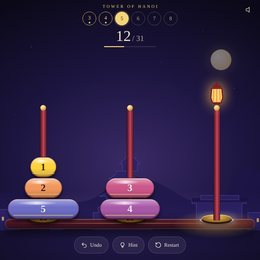
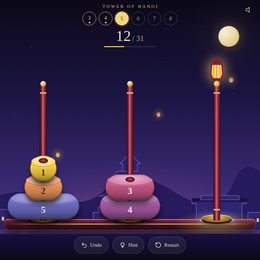
Tower of Hanoi: discs become rings you can see into, richer night sky
Discs now show a lit top face and a peg hole and overlap like a real stack, pegs get brass collars,
the base is a lacquered plinth, the sky has a horizon glow, a brighter moon, a stronger pagoda and
drifting sky lanterns, the tower is scaled up to fill the screen, and the control bar sits on dark ground.

Claude-Session: https://claude.ai/code/session_016v15ucP2T6zEZ4FJg5VXMC

Changed region(s): [[0.0, 0.0923, 1.0, 0.9231], [0.1231, 0.9538, 0.8923, 1.0], [0.5846, 0.4308, 0.6154, 0.4615]]

diff --git a/games/tower_of_hanoi.html b/games/tower_of_hanoi.html
@@ -10,10 +10,12 @@
 :root{--ink:#0d0a1f;--gold:#f2d57a;--paper:#efe3c8;--dim:#efe3c8b8;--bad:#ff8a7a}
 *{box-sizing:border-box;margin:0;-webkit-tap-highlight-color:transparent}
 html,body{height:100%;background:var(--ink);color:var(--paper);font-family:"Iowan Old Style",Palatino,"Palatino Linotype",Georgia,serif;overflow:hidden;font-feature-settings:'lnum';overscroll-behavior:none}
-#app{height:100%;height:100dvh;display:flex;flex-direction:column;position:relative;background:radial-gradient(90% 70% at 50% 62%,#3a2a66 0%,#1c1540 50%,#0b0918 100%);user-select:none;-webkit-user-select:none}
+#app{height:100%;height:100dvh;display:flex;flex-direction:column;position:relative;overflow:hidden;background:radial-gradient(70% 38% at 50% 88%,#9a4a7a66 0%,#0000 70%),linear-gradient(#0b0918 0%,#1c1544 38%,#3a2a73 72%,#6a3f86 100%);user-select:none;-webkit-user-select:none}
 .stars{position:absolute;inset:0;background-image:radial-gradient(1.5px 1.5px at 12% 18%,#fff9,#0000),radial-gradient(1px 1px at 78% 12%,#fff8,#0000),radial-gradient(1.5px 1.5px at 90% 34%,#fff7,#0000),radial-gradient(1px 1px at 30% 8%,#fff8,#0000),radial-gradient(1px 1px at 6% 44%,#fff6,#0000),radial-gradient(1.5px 1.5px at 62% 24%,#fff6,#0000)}
-.moon{position:absolute;right:9%;top:max(22%,150px);width:clamp(46px,8vmin,84px);aspect-ratio:1;border-radius:50%;background:radial-gradient(circle at 36% 34%,#fffbe6,#f6e3a1 55%,#e2c06e);box-shadow:0 0 30px 8px #f2d57a30,0 0 120px 40px #f2d57a14;opacity:.45;pointer-events:none}
-.temple{position:absolute;left:0;right:0;bottom:92px;height:34%;opacity:.7;pointer-events:none;width:100%}
+.moon{position:absolute;right:8%;top:max(10%,76px);width:clamp(46px,8vmin,84px);aspect-ratio:1;border-radius:50%;background:radial-gradient(circle at 30% 28%,#fffdf0,#f6e3a1 52%,#d9b765);box-shadow:0 0 30px 8px #f2d57a30,0 0 120px 40px #f2d57a14;opacity:.95;pointer-events:none}
+.temple{position:absolute;left:0;right:0;bottom:92px;height:34%;opacity:.95;pointer-events:none;width:100%}
+.fly{position:absolute;bottom:-30px;width:var(--s);height:calc(var(--s)*1.25);border-radius:30% 30% 40% 40%;background:radial-gradient(circle at 50% 70%,#fff3b0,#ffb84a 55%,#c0432a);box-shadow:0 0 calc(var(--s)*1.4) calc(var(--s)*.5) #ffb84a66;opacity:0;pointer-events:none;animation:fly var(--d) linear infinite;animation-delay:var(--w)}
+@keyframes fly{0%{transform:translate(0,0);opacity:0}12%{opacity:.85}85%{opacity:.7}100%{transform:translate(var(--x),-92vh);opacity:0}}
 .mist{position:absolute;left:0;right:0;bottom:92px;height:120px;background:linear-gradient(#0000,#5a4aa855 65%,#0000);pointer-events:none}
 header{position:relative;display:flex;flex-direction:column;align-items:center;gap:8px;padding:12px 16px 0}
 .title{font-size:13px;letter-spacing:.34em;text-transform:uppercase;color:var(--gold);padding-left:.34em}
@@ -40,7 +42,7 @@ header{position:relative;display:flex;flex-direction:column;align-items:center;g
 .stage{position:absolute;left:0;right:0;bottom:0;touch-action:none;cursor:pointer}
 .col{position:absolute;top:0;bottom:0;transition:background .15s}
 .col.hot{background:radial-gradient(closest-side at 50% 85%,#f2d57a26,#0000)}
-.peg{position:absolute;width:20px;margin-left:-10px;border-radius:7px 7px 3px 3px;background:linear-gradient(90deg,#3d0f1b,#a8344a 40%,#c24a5c 52%,#5a1626);box-shadow:0 0 0 1px #0004;pointer-events:none}
+.peg{position:absolute;width:20px;margin-left:-10px;border-radius:7px 7px 3px 3px;background:linear-gradient(#0000 0,#0000 0) 0 0/0 0 no-repeat,linear-gradient(#f2d57a,#b88a35) 0 22px/100% 5px no-repeat,linear-gradient(#f2d57a,#b88a35) 0 calc(100% - 30px)/100% 5px no-repeat,linear-gradient(90deg,#2d0812,#8f2a40 28%,#e0687a 46%,#a8344a 60%,#3d0f1b);box-shadow:0 0 0 1px #0005;pointer-events:none}
 .peg::before{content:"";position:absolute;top:-13px;left:50%;width:18px;height:18px;margin-left:-9px;border-radius:50%;background:radial-gradient(circle at 38% 30%,#fff6c8,#d9a94d 55%,#7a5a1f)}
 .goalmark{position:absolute;height:18px;margin:-4px 0 0 -52px;width:104px;border-radius:50%;border:2px solid #e6f6ff;box-shadow:0 0 18px 4px #bfe6ff88,inset 0 0 12px #bfe6ff77;pointer-events:none}
 .goal .peg{box-shadow:0 0 26px 6px #bfe6ff66}
@@ -59,13 +61,13 @@ header{position:relative;display:flex;flex-direction:column;align-items:center;g
 .col.nope{background:radial-gradient(closest-side at 50% 85%,#ff6a5a40,#0000)}
 .target{position:absolute;width:30px;height:30px;margin:-15px 0 0 -15px;border-radius:50%;border:2px solid var(--gold);pointer-events:none;animation:beacon 1s ease-in-out infinite}
 @keyframes beacon{0%,100%{transform:scale(.8);opacity:.5}50%{transform:scale(1.25);opacity:1}}
-.slab{position:absolute;left:2%;right:2%;height:30px;border-radius:15px;background:linear-gradient(#5a1a2c,#2a0c18);box-shadow:0 14px 30px #000a,inset 0 2px 0 #ffffff30,inset 0 0 0 1px #f2d57a55;pointer-events:none}
-.slab::after{content:"";position:absolute;left:14px;right:14px;top:12px;height:2px;background:linear-gradient(90deg,#0000,#f2d57a88,#0000)}
-.disc{position:absolute;left:0;top:0;height:var(--h);border-radius:calc(var(--h)*.5);display:grid;place-items:center;font-weight:700;font-size:calc(var(--h)*.5);color:var(--t);text-shadow:0 1px 0 var(--ts,#ffffff66);letter-spacing:.02em;pointer-events:none;will-change:transform;transform-origin:50% 100%;
- background:linear-gradient(180deg,#ffffff66 0,#ffffff00 40%,#0000 55%,#0003 100%),var(--c);
- box-shadow:0 0 0 1.5px #2a0a1a99,inset 0 0 0 2px #3a102066,inset 0 3px 0 #fffc,inset 0 -5px 0 #3a102050,0 10px 12px -3px #000b}
-.disc::after{content:"";position:absolute;left:8%;right:8%;bottom:17%;height:2px;border-radius:2px;background:#f6dc8acc;box-shadow:0 1px 0 #3a102066;pointer-events:none}
-.disc::before{content:"";position:absolute;left:12%;right:30%;top:12%;height:16%;border-radius:50%;background:linear-gradient(90deg,#fff0,#fffb,#fff0);pointer-events:none}
+.slab{position:absolute;left:1.5%;right:1.5%;height:34px;border-radius:12px 12px 18px 18px;background:linear-gradient(#a03a52 0,#6a1f35 18%,#3c1020 60%,#220912 100%);box-shadow:0 18px 36px #000b,inset 0 2px 0 #ffd2dc55,inset 0 0 0 1px #f2d57a66,0 0 0 1px #0006;pointer-events:none}
+.slab::after{content:"";position:absolute;left:18px;right:18px;top:14px;height:3px;border-radius:2px;background:linear-gradient(90deg,#0000,#f2d57acc 12%,#f2d57acc 88%,#0000);box-shadow:0 1px 0 #00000066}
+.disc{position:absolute;left:0;top:0;height:var(--h);border-radius:calc(var(--h)*.5);display:flex;align-items:flex-end;justify-content:center;padding-bottom:calc(var(--h)*.17);font-weight:700;font-size:calc(var(--h)*.36);line-height:1;color:var(--t);text-shadow:0 1px 0 var(--ts,#ffffff66);letter-spacing:.02em;pointer-events:none;will-change:transform;transform-origin:50% 100%;
+ background:linear-gradient(180deg,color-mix(in srgb,var(--c) 70%,#fff) 0,var(--c) 34%,color-mix(in srgb,var(--c) 82%,#000) 72%,color-mix(in srgb,var(--c) 58%,#000) 100%);
+ box-shadow:0 0 0 1.5px color-mix(in srgb,var(--c) 40%,#1a0612),inset 0 -4px 0 #2a0a1a40,inset 0 -1px 0 #ffffff30,0 calc(var(--h)*.16) calc(var(--h)*.2) -2px #000c}
+.disc::before{content:"";position:absolute;left:3.5%;right:3.5%;top:2%;height:42%;border-radius:50%;background:radial-gradient(ellipse at 50% 30%,color-mix(in srgb,var(--c) 40%,#fff),color-mix(in srgb,var(--c) 78%,#fff) 70%);box-shadow:inset 0 -2px 0 #3a102050,0 1px 0 #ffffff55;pointer-events:none}
+.disc::after{content:"";position:absolute;left:50%;top:9%;width:min(28px,36%);height:20%;transform:translateX(-50%);border-radius:50%;background:radial-gradient(ellipse at 50% 40%,#c24a5c,#4a1020 70%);box-shadow:inset 0 2px 3px #000a;pointer-events:none}
 .disc.glow{animation:glow .7s ease-out}
 @keyframes glow{0%,100%{filter:none}30%{filter:brightness(1.35) drop-shadow(0 0 12px #ffd36a)}}
 .disc.hinted{animation:hinted .9s ease-in-out infinite}
@@ -74,7 +76,7 @@ header{position:relative;display:flex;flex-direction:column;align-items:center;g
 @keyframes ripple{from{transform:scale(.4,.4);opacity:.9}to{transform:scale(1.25,1.6);opacity:0}}
 .mote{position:absolute;width:6px;height:6px;border-radius:50%;background:#ffe9a0;box-shadow:0 0 8px 2px #ffc45c;pointer-events:none;animation:rise 2.2s ease-out forwards}
 @keyframes rise{from{transform:translate(0,0);opacity:1}to{transform:translate(var(--dx),-170px);opacity:0}}
-.bar{position:relative;display:flex;justify-content:center;gap:12px;padding:8px 16px calc(20px + env(safe-area-inset-bottom))}
+.bar{position:relative;background:linear-gradient(#171040,#0b0918);border-top:1px solid #f2d57a26;margin-top:-1px;display:flex;justify-content:center;gap:12px;padding:8px 16px calc(20px + env(safe-area-inset-bottom))}
 .btn{height:52px;min-width:52px;padding:0 20px;border-radius:26px;border:1px solid #efe3c840;background:#ffffff10;color:var(--paper);font:inherit;font-size:16px;display:flex;align-items:center;justify-content:center;gap:8px;cursor:pointer;transition:transform .12s,background .15s,opacity .2s}
 .btn:active{transform:scale(.95);background:#ffffff22}
 .btn[disabled]{opacity:.35;pointer-events:none}
@@ -90,24 +92,25 @@ header{position:relative;display:flex;flex-direction:column;align-items:center;g
 .card p{margin:6px 0 20px;color:var(--dim);font-size:16px;line-height:1.35}
 .card .row{display:flex;gap:10px;justify-content:center}
 .card .btn{flex:1;max-width:190px}
-@media(min-width:900px){.card{margin-top:170px}.title{font-size:16px}.say{font-size:18px}.btn{font-size:17px}}
+@media(min-width:900px){.lv{width:48px;height:48px;font-size:19px}.hud b{font-size:60px}.hud b i{font-size:28px}.btn{height:58px;padding:0 26px}.card{margin-top:170px}.title{font-size:16px}.say{font-size:18px}.btn{font-size:17px}}
 #app.sheet .hud{opacity:0}
 .hud{transition:opacity .3s}
 #app.dawn::after{content:"";position:absolute;inset:0;pointer-events:none;background:radial-gradient(60% 60% at 83% 45%,#ffd98a66,#0000 70%);animation:dawn 1.6s ease-out forwards}
 @keyframes dawn{0%{opacity:0}30%{opacity:1}100%{opacity:.0}}
-@media(min-width:900px){header{flex-direction:row;justify-content:center;gap:28px;padding-top:16px}.title{position:absolute;left:24px;top:24px}}
+@media(min-width:900px){.lv{width:48px;height:48px;font-size:19px}.hud b{font-size:60px}.hud b i{font-size:28px}.btn{height:58px;padding:0 26px}header{flex-direction:row;justify-content:center;gap:28px;padding-top:16px}.title{position:absolute;left:24px;top:24px}}
 @media(max-height:560px){.hud{min-height:0}.hud b{font-size:36px}.say{display:none}}
-@media(prefers-reduced-motion:reduce){.ghost{animation:none}#app.dawn::after{animation:none;opacity:0}.target,.disc.hinted,.disc.glow,.lantern.lit{filter:drop-shadow(0 0 30px #ffd36a) brightness(1.25);animation:none}
+@media(prefers-reduced-motion:reduce){.fly{display:none}.ghost{animation:none}#app.dawn::after{animation:none;opacity:0}.target,.disc.hinted,.disc.glow,.lantern.lit{filter:drop-shadow(0 0 30px #ffd36a) brightness(1.25);animation:none}
 .lantern.flare{animation:none}.mote{display:none}.ring{animation-duration:.01s}.card,#veil{transition:none}}
 </style>
 </head>
 <body>
 <div id="app">
 <div class="stars"></div><div class="moon"></div>
+<i class="fly" style="left:8%;--s:9px;--d:34s;--w:-4s;--x:30px"></i><i class="fly" style="left:23%;--s:12px;--d:44s;--w:-20s;--x:-26px"></i><i class="fly" style="left:41%;--s:7px;--d:38s;--w:-12s;--x:18px"></i><i class="fly" style="left:63%;--s:11px;--d:48s;--w:-30s;--x:-34px"></i><i class="fly" style="left:78%;--s:8px;--d:36s;--w:-8s;--x:22px"></i><i class="fly" style="left:90%;--s:13px;--d:52s;--w:-40s;--x:-20px"></i>
 <div class="mist"></div>
 <svg class="temple" viewBox="0 0 400 120" preserveAspectRatio="xMidYMax slice" aria-hidden="true">
-<path d="M0 120V84q40-26 90-8t80-14 90 6 80-12 60 14v50z" fill="#1c1548"/>
-<g fill="#2b2166" stroke="#5a4aa8" stroke-width=".6">
+<path d="M0 120V84q40-26 90-8t80-14 90 6 80-12 60 14v50z" fill="#241a5a"/>
+<g fill="#2e2470" stroke="#7a68c8" stroke-width=".7">
 <path d="M20 120V92h30V120z"/><path d="M92 120V88h-6l14-9 14 9h-6V120z"/>
 <path d="M150 120V96h8l-2-6 4-3h60l4 3-2 6h8V120z"/>
 <path d="M168 90V74h-10q12-3 16-12h22q4 9 16 12h-10V90z"/><path d="M178 62V50h-8q10-3 12-10h16q2 7 12 10h-8V62z"/><path d="M190 40V30h-4l14-14 14 14h-4V40z"/>
@@ -245,14 +248,14 @@ function pickStart() {
 // ---------- layout ----------
 function layout() {
   const W = board.clientWidth, BH = board.clientHeight, col = W / 3, gap = 3;
-  const h = Math.max(16, Math.min(col * .42, (BH - 70) / (n + 2)));
-  const pegH = Math.min(BH - 84 - h * 1.5, (n + 3) * (h + gap)), SH = pegH + h * 1.5 + 84;
-  G = {W, col, gap, h, pegH, SH, slabTop: SH - 46, lift: SH - 46 - pegH - h * 1.15};
-  stage.style.height = SH + 'px';
+  const K = .74, h = Math.max(18, Math.min(col * .46, (BH - 60) / (n * K + 2.1)));
+  const pitch = h * K, pegH = h + (n - 1) * pitch + h * 1.3, SH = pegH + 46 + 90 + h * .6;
+  G = {W, col, gap, h, pitch, pegH, SH, slabTop: SH - 46, lift: SH - 46 - pegH - h * 1.15, free: Math.max(0, BH - SH)};
+  stage.style.height = SH + 'px'; stage.style.bottom = Math.round(G.free * .3) + 'px';
 }
 const wOf = d => G.col * (.3 + .52 * (d - 1) / Math.max(1, n - 1));
 const restXY = (s, d) => {
-  for (let p = 0; p < 3; p++) { const j = s.pegs[p].indexOf(d); if (j >= 0) return {x: G.col * (p + .5) - wOf(d) / 2, y: G.slabTop - (j + 1) * (G.h + G.gap) + G.gap, p}; }
+  for (let p = 0; p < 3; p++) { const j = s.pegs[p].indexOf(d); if (j >= 0) return {x: G.col * (p + .5) - wOf(d) / 2, y: G.slabTop - G.h - j * G.pitch, p}; }
 };
 const liftXY = (p, d) => ({x: G.col * (p + .5) - wOf(d) / 2, y: G.lift});
 const put = (el, x, y) => { el._x = x; el._y = y; el.style.transform = `translate(${x}px,${y}px)`; };
@@ -281,9 +284,10 @@ function build() {
   }
   settle();
 }
+const zOf = d => { for (let p = 0; p < 3; p++) { const j = state.pegs[p].indexOf(d); if (j >= 0) return 1 + j; } return 1; };
 function settle() {
   for (let d = 1; d <= n; d++) {
-    els[d].getAnimations().forEach(a => a.cancel());
+    els[d].getAnimations().forEach(a => a.cancel()); els[d].style.zIndex = zOf(d);
     const sp = restXY(state, d);
     if (sel && sel.d === d) { const l = liftXY(sp.p, d); put(els[d], l.x, l.y); } else put(els[d], sp.x, sp.y);
   }
@@ -343,12 +347,12 @@ function glide(el, x, y, ms, ease = 'cubic-bezier(.2,.8,.2,1)') {
 function select(p) {
   const d = H.top(state, p); if (!d) return;
   sel = {p, d}; clearHint(); say('');
-  const l = liftXY(p, d); els[d].style.zIndex = 4; glide(els[d], l.x, l.y, dur(170));
+  const l = liftXY(p, d); els[d].style.zIndex = 30; glide(els[d], l.x, l.y, dur(170));
   bell(n, d, 0, .35, .5);
 }
 function putDown() {
   if (!sel) return; const d = sel.d, r = restXY(state, d); sel = null;
-  glide(els[d], r.x, r.y, dur(170)); setTimeout(() => { els[d].style.zIndex = ''; }, 170);
+  glide(els[d], r.x, r.y, dur(170)); setTimeout(() => { els[d].style.zIndex = zOf(d); }, 170);
 }
 function shake(d) {
   const el = els[d]; if (reduce.matches) return;
@@ -374,9 +378,9 @@ function commit(from, to, opt = {}) {
   state = H.move(state, from, to).state; sel = null;
   if (opt.undo) hist.pop(); else hist.push([from, to]);
   const r = restXY(state, d), lx0 = a.y > G.lift ? G.lift : a.y;
-  el.getAnimations().forEach(q => q.cancel()); put(el, r.x, r.y); el.style.zIndex = 4;
+  el.getAnimations().forEach(q => q.cancel()); put(el, r.x, r.y); el.style.zIndex = 30;
   const far = Math.abs(to - from), total = dur(was ? 340 + far * 90 : 460 + far * 100);
-  if (reduce.matches) { el.style.zIndex = ''; }
+  if (reduce.matches) { el.style.zIndex = zOf(d); }
   else {
     const L = G.lift, up = was ? 0 : .22;
     const kf = [{transform: tr(a.x, a.y), offset: 0}];
@@ -385,7 +389,7 @@ function commit(from, to, opt = {}) {
       {transform: tr(r.x, r.y, .86, 1.05), offset: .94}, {transform: tr(r.x, r.y), offset: 1});
     kf[0].easing = 'cubic-bezier(.2,.8,.2,1)';
     el.animate(kf, {duration: total, easing: 'linear'});
-    setTimeout(() => { el.style.zIndex = ''; }, total);
+    setTimeout(() => { el.style.zIndex = zOf(d); }, total);
   }
   const land = total * .88;
   setTimeout(() => ripple(r.x + wOf(d) / 2, r.y + G.h, wOf(d)), land);
@@ -486,7 +490,7 @@ stage.addEventListener('pointermove', e => {
   if (!drag.on && Math.hypot(e.clientX - drag.x, e.clientY - drag.y) > 10) { drag.on = true; els[sel.d].getAnimations().forEach(q => q.cancel()); }
   if (!drag.on) return;
   const el = els[sel.d], w = wOf(sel.d), px = e.clientX - r.left, py = e.clientY - r.top;
-  put(el, px - w / 2, Math.max(0, Math.min(G.slabTop - G.h, py - G.h * 1.2)));
+  put(el, px - w / 2, Math.max(0, Math.min(G.slabTop - G.h, py - G.h * .8)));
   const c = colOf(e); G.cols.forEach((q, i) => { q.classList.toggle('hot', i === c && i !== sel.p && H.canMove(state, sel.p, i)); q.classList.toggle('nope', i === c && i !== sel.p && !H.canMove(state, sel.p, i)); });
 });
 const endDrag = e => {
@@ -495,7 +499,7 @@ const endDrag = e => {
   if (!was.on || !sel) return;
   const c = colOf(e), el = els[sel.d];
   if (c === sel.p) { putDown(); return; }
-  if (H.canMove(state, sel.p, c)) commit(sel.p, c); else { const d = sel.d, r = restXY(state, d); thud(); const f = sel.p; refuse(c, d); sel = null; glide(el, r.x, r.y, dur(260)); setTimeout(() => { el.style.zIndex = ''; }, 260); }
+  if (H.canMove(state, sel.p, c)) commit(sel.p, c); else { const d = sel.d, r = restXY(state, d); thud(); const f = sel.p; refuse(c, d); sel = null; glide(el, r.x, r.y, dur(260)); setTimeout(() => { el.style.zIndex = zOf(d); }, 260); }
 };
 stage.addEventListener('pointerup', endDrag);
 stage.addEventListener('pointercancel', endDrag);
